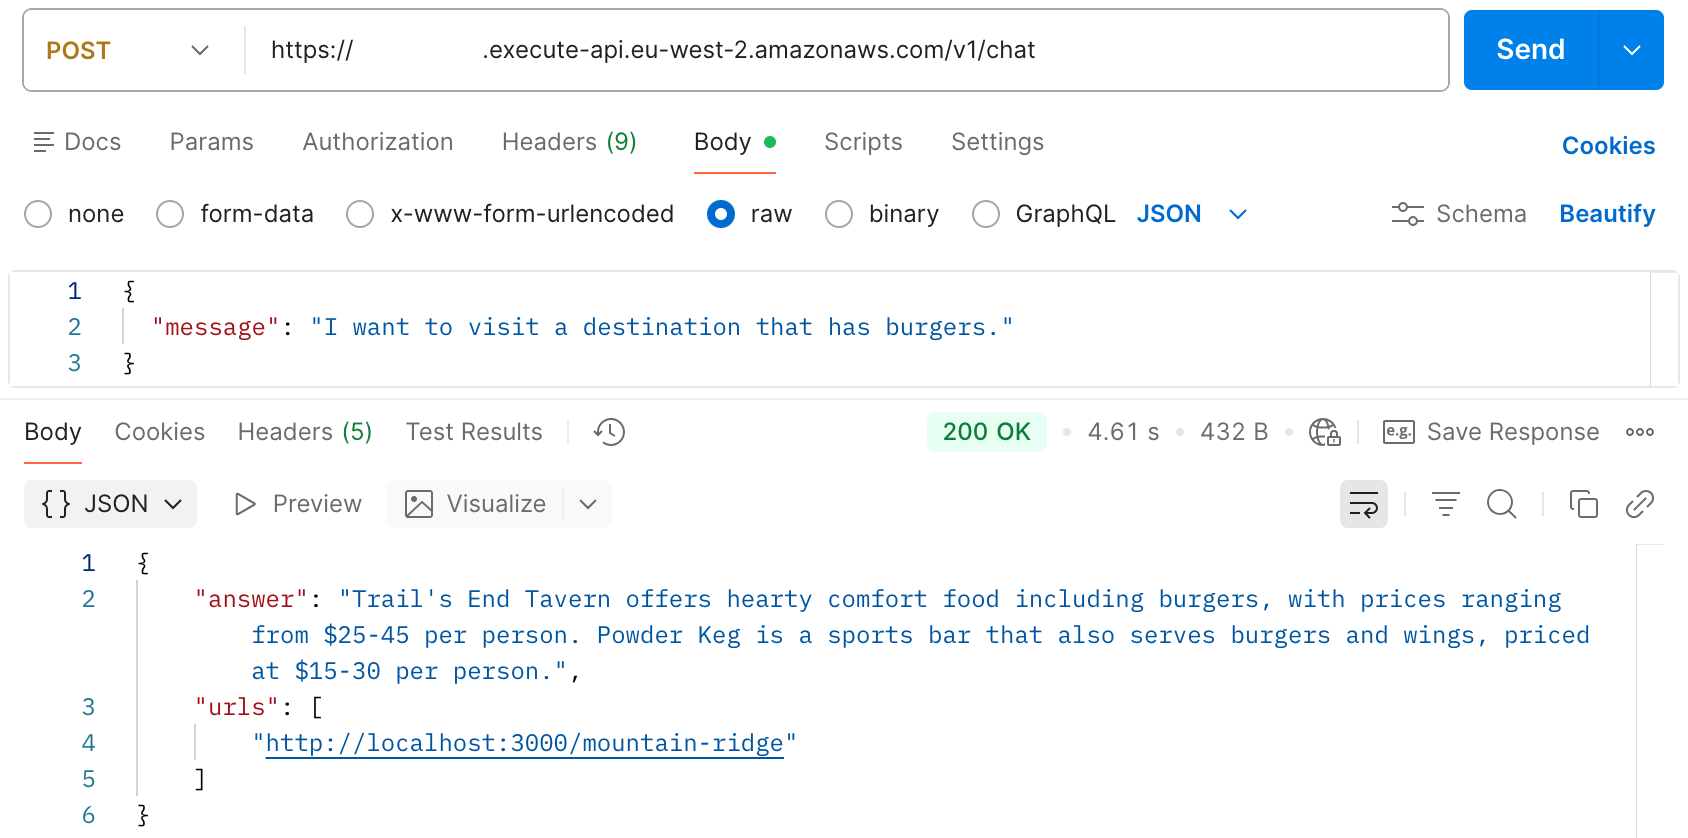
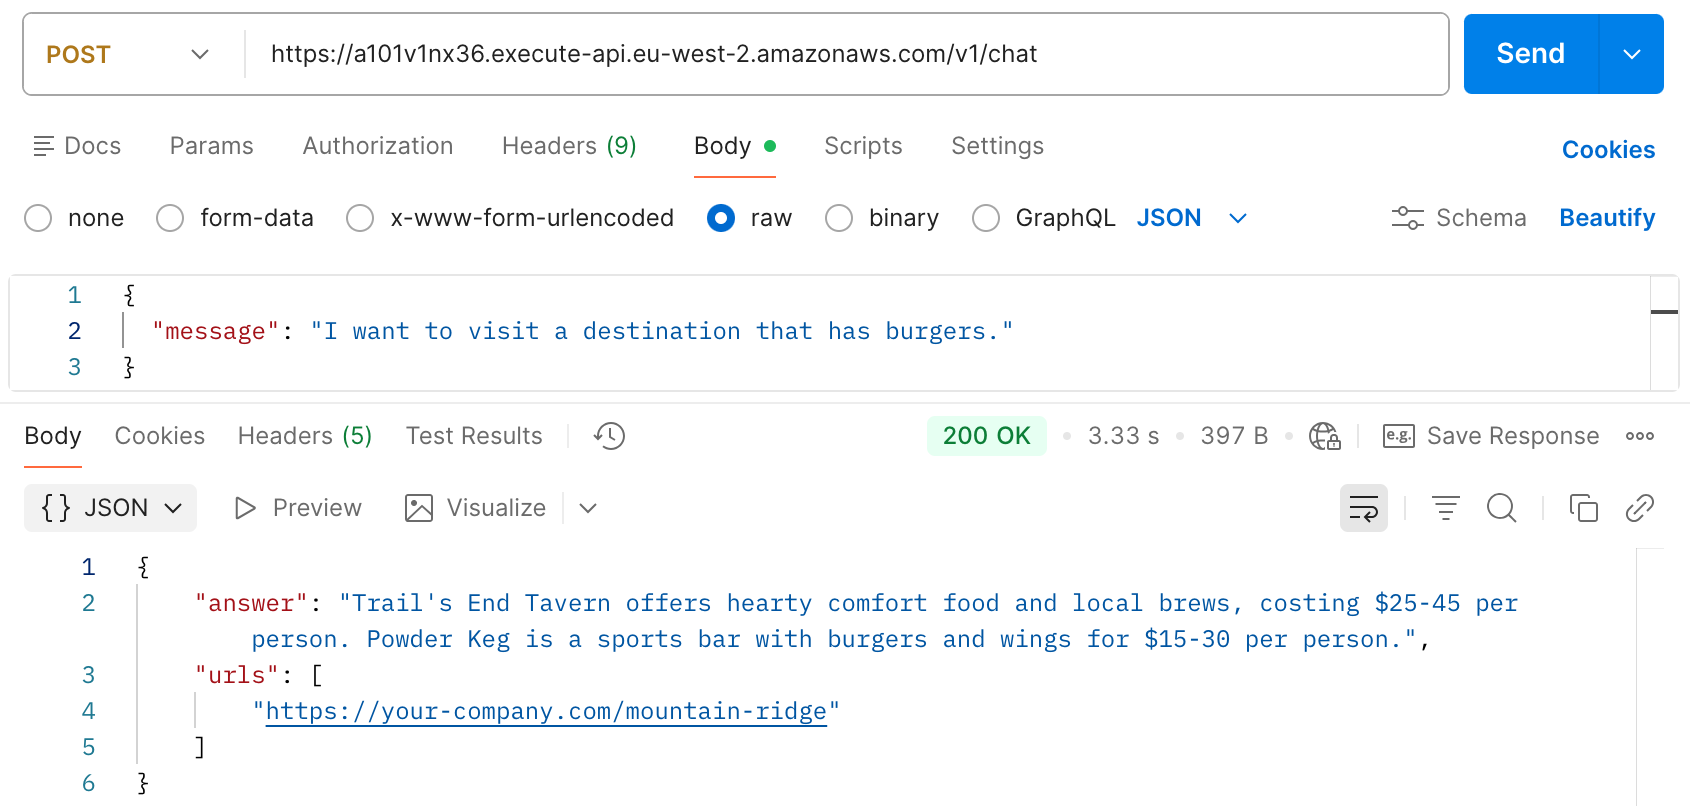
Removing duplicate URLs in API response

diff --git a/functions/bedrock_function.py b/functions/bedrock_function.py
@@ -1,7 +1,7 @@
 #!/usr/bin/env python3
 
 # RAG Knowledge Base Lambda Function
-# Version: 1.0.0
+# Version: 1.0.1
 # Author: Christopher Royall
 # Description: Bedrock-powered chat API handler for RAG system
 
@@ -135,6 +135,7 @@ def lambda_handler(event, context):
             logger.info(f"Found {len(citations)} citation groups")
             for citation_group in citations:
                 retrieved_refs = citation_group.get("retrievedReferences", [])
+                logger.debug(f"Retrieved references: {json.dumps(retrieved_refs, indent=2)}")
                 for ref in retrieved_refs:
                     uri = ref.get("location", {}).get("s3Location", {}).get("uri")
                     if uri:
@@ -142,7 +143,9 @@ def lambda_handler(event, context):
                         filename = uri.replace(f"s3://{bucket_name}", "").split("/")[-1].replace(".md", "")
                         # Combine with base URL
                         full_url = f"{docs_base_url}/{filename}"
-                        all_full_urls.append(full_url)
+                        # Only add if new
+                        if full_url not in all_full_urls:
+                            all_full_urls.append(full_url)
                 
         logger.info("Returning successful response")
         return {
